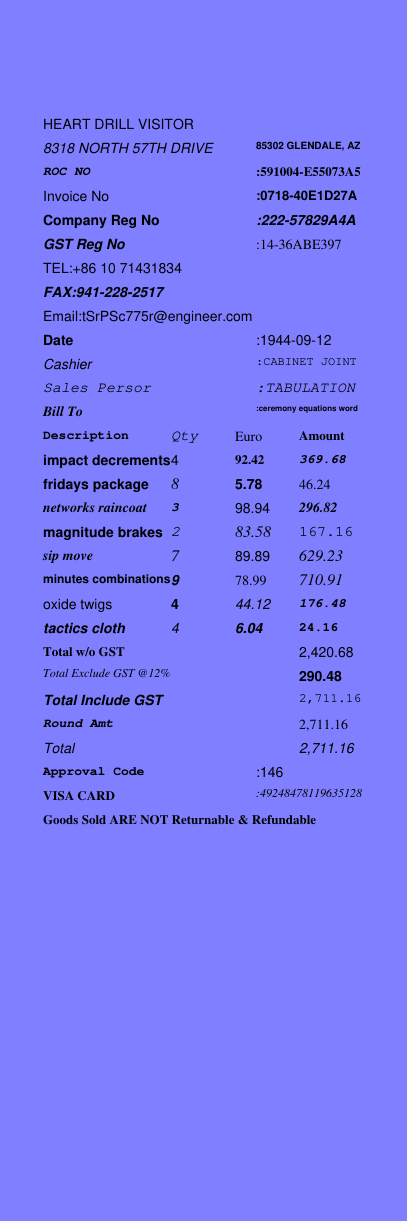
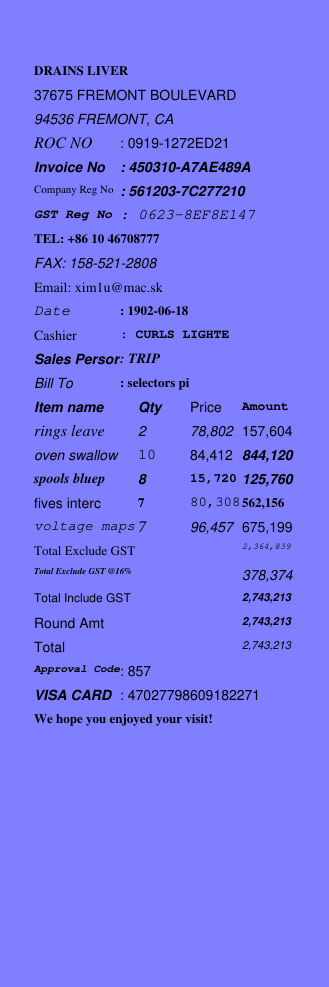
.

Changed region(s): [[0.0912, 0.0608, 0.9119, 0.7599]]

diff --git a/receipt_generator.py b/receipt_generator.py
@@ -1071,9 +1071,10 @@ class ReceiptJsonGenerator:
     def random_email(self):
         prefix_length = random.randint(5, 10)
         prefix = "".join(
-            random.choices(string.ascii_letters + string.digits, k=prefix_length)
+            random.choices(
+                string.ascii_letters.lower() + string.digits, k=prefix_length
+            )
         )
-
         return prefix + "@" + random.choice(MAIL_END)
 
     def random_phone(self):
@@ -1168,8 +1169,8 @@ class ReceiptJsonGenerator:
     def random_sep(self):
         return random.choice(SEP_LIST)
 
-    def random_item(self, num=2):
-        return " ".join(self.rw.random_words(count=num))
+    def random_item(self, num=1):
+        return " ".join(self.rw.random_words(count=num))[:12]
 
     def random_address(self):
         return real_random_address()
@@ -1194,7 +1195,7 @@ class ReceiptJsonGenerator:
 
     def random_cart(self):
         unit = random.choice(UNITS)
-        num_of_item = random.randint(1, 20)
+        num_of_item = random.randint(1, 10)
         cart = []
         large_item = random.choice([True, False])
         total = 0
@@ -1252,14 +1253,24 @@ class ReceiptJsonGenerator:
         qty_alis = ["Qty"]
         price_alias = ["Price", cart["unit"]]
         amount_alias = ["Amount"]
-        lines = [
-            [
-                random.choice(item_alias),
-                random.choice(qty_alis),
-                random.choice(price_alias),
-                random.choice(amount_alias),
+        include_qty_in_desc = random.choice([True, False])
+        if include_qty_in_desc:
+            lines = [
+                [
+                    random.choice(item_alias),
+                    random.choice(price_alias),
+                    random.choice(amount_alias),
+                ]
             ]
-        ]
+        else:
+            lines = [
+                [
+                    random.choice(item_alias),
+                    random.choice(qty_alis),
+                    random.choice(price_alias),
+                    random.choice(amount_alias),
+                ]
+            ]
 
         def format(price):
             if cart["large_item"]:
@@ -1268,7 +1279,22 @@ class ReceiptJsonGenerator:
                 return f"{price:,.2f}"
 
         for item in cart["items"]:
-            lines.append([item[0], str(item[1]), format(item[2]), format(item[3])])
+            if include_qty_in_desc:
+                lines.append(
+                    [
+                        str(item[1]) + " x  " + item[0],
+                        format(item[2]),
+                        format(item[3]),
+                    ]
+                )
+                lines.append(
+                    ["Total Qty :", str(item[1])]
+                )
+            else:
+                lines.append([item[0], str(item[1]), format(item[2]), format(item[3])])
+                lines.append(
+                    ["Total Qty :", str(item[1])]
+                )
 
         t_wo_gst_alis = ["Total w/o GST", "Total Exclude GST"]
         t_gst_alis = [f"Total Exclude GST @{cart['ratio']}%"]
@@ -1287,37 +1313,60 @@ class ReceiptJsonGenerator:
         finish = False
         while finish == False:
             address = self.random_address()
+            if "address1" in address:
+                addr1 = address["address1"]
+            else:
+                addr1 = self.random_item(2)
+
+            if "city" in address:
+                city = address["city"]
+            else:
+                city = self.random_item(1)
+
+            if "state" in address:
+                state = address["state"]
+            else:
+                state = self.random_item(1)
+
+            if "postalCode" in address:
+                postalCode = address["postalCode"]
+            else:
+                postalCode = self.randomint(10000, 99999)
+
             address_string = [
-                address["address1"].upper(),
-                str(address["postalCode"])
-                + " "
-                + address["city"].upper()
-                + ", "
-                + address["state"].upper(),
+                [addr1.upper()],
+                [str(postalCode) + " " + city.upper() + ", " + state.upper()],
             ]
             finish = True
-        object = {
-            "content": [
-                [self.random_item(3).upper()],
-                address_string,
-                ["ROC NO", ":" + str(self.invoice_number())],
-                ["Invoice No", ":" + self.invoice_number()],
-                ["Company Reg No", ":" + self.invoice_number()],
-                ["GST Reg No", ":" + self.invoice_number()],
-                ["TEL" + ":" + self.random_phone()],
-                ["FAX" + ":" + self.random_fax()],
-                ["Email" + ":" + self.random_email()],
-                ["Date", ":" + date],
-                ["Cashier", ":" + self.random_item(2).upper()],
-                ["Sales Persor", ":" + self.random_item(1).upper()],
-                ["Bill To", ":" + self.random_item(3)],
-            ]
-            + self.deal(cart)
+        sep = self.random_sep()
+        content = (
+            [[self.random_item(3).upper()]]
+            + address_string
             + [
-                ["Approval Code", ":" + str(random.randint(100, 999))],
-                ["VISA CARD", ":" + self.random_visa_number()],
+                ["ROC NO", ": " + str(self.invoice_number())],
+                ["Invoice No", ": " + self.invoice_number()],
+                ["Company Reg No", ": " + self.invoice_number()],
+                ["GST Reg No", ": " + self.invoice_number()],
+                ["TEL" + ": " + self.random_phone()],
+                ["FAX" + ": " + self.random_fax()],
+                ["Email" + ": " + self.random_email()],
+                ["Date", ": " + date],
+                ["Cashier", ": " + self.random_item(2).upper()],
+                ["Sales Persor", ": " + self.random_item(1).upper()],
+                ["Bill To", ": " + self.random_item(2)],
+            ]
+            + [sep*40]
+            + self.deal(cart)
+            + [sep*40]
+            + [
+                ["Approval Code", ": " + str(random.randint(100, 999))],
+                ["VISA CARD", ": " + self.random_visa_number()],
                 [random.choice(ENDING)],
-            ],
+            ]
+        )
+
+        object = {
+            "content": content,
             "sep": self.random_sep(),
         }
         return object
@@ -1342,11 +1391,11 @@ class ReceiptImgGenerator:
 
         # check if the number of texts and intervals are the same
         if intervals is None:
-            intervals = [2] + [1] * (len(texts)-1)
+            intervals = [2] + [1] * (len(texts) - 1)
+        if len(texts) == 2:
+            intervals = [1, 2]
         total_interval = sum(intervals)
-        text_widths = [
-                int(width * interval / total_interval) for interval in intervals
-            ]
+        text_widths = [int(width * interval / total_interval) for interval in intervals]
         # if intervals is not None:
         #     assert len(texts) == len(
         #         intervals
@@ -1373,7 +1422,8 @@ class ReceiptImgGenerator:
                     height,
                     text,
                     font_size,
-                    random.choice(BASE_FONTNAME),
+                    BASE_FONTNAME[2]
+                    # random.choice(BASE_FONTNAME),
                 )
             )
             last_x += text_widths[i]
@@ -1382,15 +1432,15 @@ class ReceiptImgGenerator:
     def __call__(
         self,
         rec: dict,
-        min_width=256,
-        max_width=512,
+        min_width=300,
+        max_width=300,
         min_ratio=3,
         max_ratio=3,
-        min_w_edge_dist=0.1,
+        min_w_edge_dist=0.05,
         max_w_edge_dist=0.15,
         min_h_edge_dist=0.05,
         max_h_edge_dist=0.1,
-        base_font=18,
+        base_font=17,
     ):
         # better estimation is needed
         width = random.randint(min_width, max_width)
@@ -1408,6 +1458,9 @@ class ReceiptImgGenerator:
 
         # background color
         background_color = (0.5, 0.5, 1)
+        background_color = (241 / 256, 242 / 256, 247 / 256)
+        # [166, 180, 163]
+        # background_color = (166/256, 180/256, 163/256)
         page.draw_rect(
             fitz.Rect(0, 0, width, height),
             color=background_color,
@@ -1432,7 +1485,12 @@ class ReceiptImgGenerator:
                     # randomly upper or lower the txt
                     # txt = txt.upper() if random.choice([True, False]) else txt.lower()
                     rc = page.insert_textbox(
-                        rect, txt, fontsize=fs, fontname=font_name, align=0
+                        rect,
+                        txt,
+                        fontsize=fs,
+                        fontname=font_name,
+                        align=1,
+                        color=(166 / 256, 180 / 256, 163 / 256),
                     )
                     fs -= 1
 
